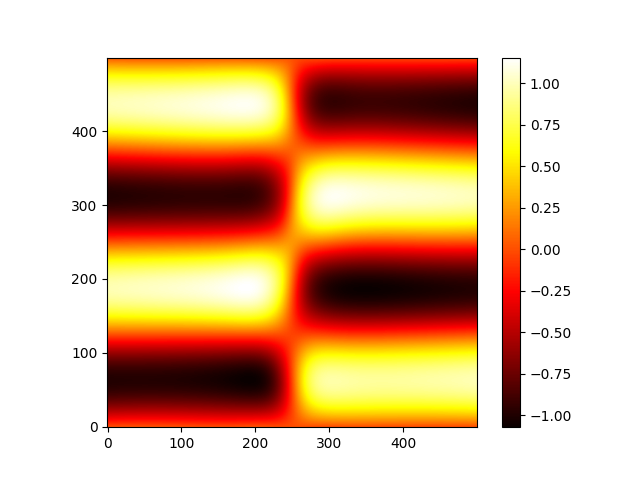
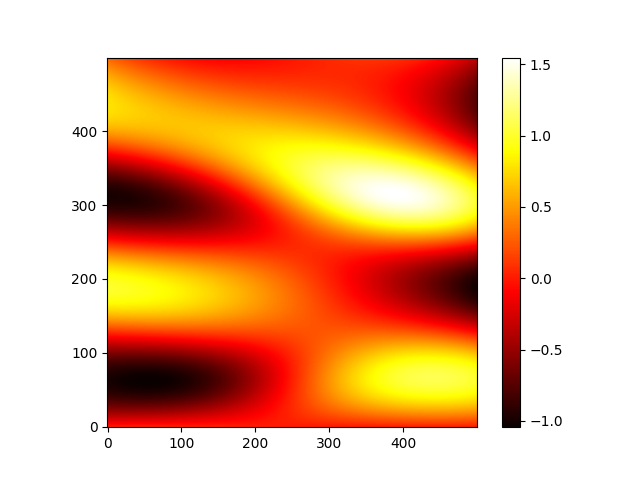
定义为private函数

diff --git a/Template/src/VPINN2d.py b/Template/src/VPINN2d.py
@@ -31,7 +31,7 @@ class VPINN:
         x = quad_integral.XX
         y = quad_integral.YY
         for index in range(self.grid_num ** 2):
-            x1, y1, x2, y2 = self.index2frame(index, self.grid_num)
+            x1, y1, x2, y2 = self.__index2frame(index, self.grid_num)
             xx = (x.reshape(-1, 1).requires_grad_(True) + 1) / self.grid_num + x1
             yy = (y.reshape(-1, 1).requires_grad_(True) + 1) / self.grid_num + y1
             xs.append(xx)
@@ -63,19 +63,19 @@ class VPINN:
         self.calls_laplace = calls_laplace
 
         if calls_laplace:
-            self.pde1 = self.extract_laplace_term(pde, laplace_term.group(1).strip())
+            self.pde1 = self.__extract_laplace_term(pde, laplace_term.group(1).strip())
             self.pde = pde
         else:
             self.pde = pde
             self.pde1 = None
 
-    def extract_laplace_term(self, func, laplace_term):
+    def __extract_laplace_term(self, func, laplace_term):
         @functools.wraps(func)
         def wrapper(*args, **kwargs):
             return eval(laplace_term.replace('VPINN.laplace(x, y, u)', 'quad_integral.integral(self.Laplace)'), globals(), {'self': self})
         return wrapper
 
-    def index2frame(self, index, grid_num):
+    def __index2frame(self, index, grid_num):
         i = index // grid_num
         j = index % grid_num
         grid_len = 2 / grid_num
@@ -119,7 +119,7 @@ class VPINN:
         result = result.view(-1, self.Q ** 2)
         return -result
 
-    def lhsWrapper(self, x=None, y=None, u_in=None):
+    def __lhsWrapper(self, x=None, y=None, u_in=None):
         u = self.net(torch.cat([self.grid_xs, self.grid_ys], dim=1))
         
         lhs = self.pde(self.grid_xs, self.grid_ys, u)
@@ -129,17 +129,17 @@ class VPINN:
         result = torch.reshape(result, (-1, self.Q ** 2))
         return result
     
-    def loss_bc(self):
+    def __loss_bc(self):
         prediction = self.net(torch.cat([self.boundary_xs, self.boundary_ys], dim=1))
         solution = self.boundary_us
         return self.loss(prediction, solution)
         
-    def loss_interior(self):
+    def __loss_interior(self):
         if self.calls_laplace == False:
-            int1 = quad_integral.integral(self.lhsWrapper) * ((1 / self.grid_num) ** 2)
+            int1 = quad_integral.integral(self.__lhsWrapper) * ((1 / self.grid_num) ** 2)
         else:
             laplace_conponent = self.pde1(None, None, None) 
-            rest = quad_integral.integral(self.lhsWrapper)
+            rest = quad_integral.integral(self.__lhsWrapper)
             int1 = (laplace_conponent + rest) * ((1 / self.grid_num) ** 2)
         
         int2 = torch.zeros_like(int1).requires_grad_(True)
@@ -151,9 +151,9 @@ class VPINN:
         
         for i in tqdm(range(epoch_num)):
             optimizer.zero_grad()
-            loss = self.loss_interior() + coef * self.loss_bc()
+            loss = self.__loss_interior() + coef * self.__loss_bc()
             if i % 100 == 0:
-                print(f'loss_interior={self.loss_interior().item():.5g}, loss_bc={self.loss_bc().item():.5g}')
+                print(f'loss_interior={self.__loss_interior().item():.5g}, loss_bc={self.__loss_bc().item():.5g}')
             loss.backward(retain_graph=True)
             optimizer.step()
         

diff --git a/Template/test.py b/Template/test.py
@@ -2,7 +2,8 @@ import matplotlib.pyplot as plt
 import torch
 from src.VPINN2d import VPINN
 
-# define the pde and boundary condition
+#############################################################################################
+# define the pde
 def u(x, y):
     return (0.1 * torch.sin(2 * torch.pi * x) + torch.tanh(10 * x)) * torch.sin(2 * torch.pi * y)
 
@@ -16,13 +17,14 @@ def f(x, y, m=1, n=1, c=0.1, k=10):
 # When VPINN.laplace is used, you are expected to wrap the monomial with VPINN.LAPLACE_TERM() to distinguish
 # VPINN.LAPLACE_TERM can only contain a monomial of VPINN.laplace, polynomial is not allowed
 
-# def pde(x, y, u):    
-    # return VPINN.LAPLACE_TERM(VPINN.laplace(x, y, u)) - f(x, y)
+def pde(x, y, u):    
+    return VPINN.LAPLACE_TERM(VPINN.laplace(x, y, u)) - f(x, y)
 
 # this pde doesn't use the green theorem to simplify the equation
-def pde(x, y, u):    
-    return VPINN.gradients(u, x, 2) + VPINN.gradients(u, y, 2) - f(x, y)
+# def pde(x, y, u):    
+    # return VPINN.gradients(u, x, 2) + VPINN.gradients(u, y, 2) - f(x, y)
 
+#############################################################################################
 # boundary condition
 def bc(boundary_num, device='cpu'):
     xs = []
@@ -47,14 +49,16 @@ def bc(boundary_num, device='cpu'):
     boundary_us = u(boundary_xs, boundary_ys)
     return (boundary_xs, boundary_ys, boundary_us)
 
-
-device = 'cpu'
+#############################################################################################
 # train the model
-vpinn = VPINN([2, 15, 15, 15, 1], pde, bc(80, device=device), Q=20, grid_num=6, test_fcn_num=5, 
+device = 'cpu'
+vpinn = VPINN([2, 15, 15, 15, 1], pde, bc(80, device=device), Q=10, grid_num=6, test_fcn_num=5, 
             device=device, load=None)
-net = vpinn.train("Poisson", epoch_num=10000, coef=10)
-# net = vpinn.train(None, epoch_num=0, coef=10)
 
+
+net = vpinn.train("Poisson", epoch_num=10000, coef=10)
+
+#############################################################################################
 # plot and verify
 xc = torch.linspace(-1, 1, 500)
 xx, yy = torch.meshgrid(xc, xc, indexing='ij')
@@ -71,3 +75,4 @@ plt.imshow(prediction.detach().numpy(), cmap='hot', origin='lower')
 plt.colorbar()
 plt.savefig('prediction')
 plt.show()
+
